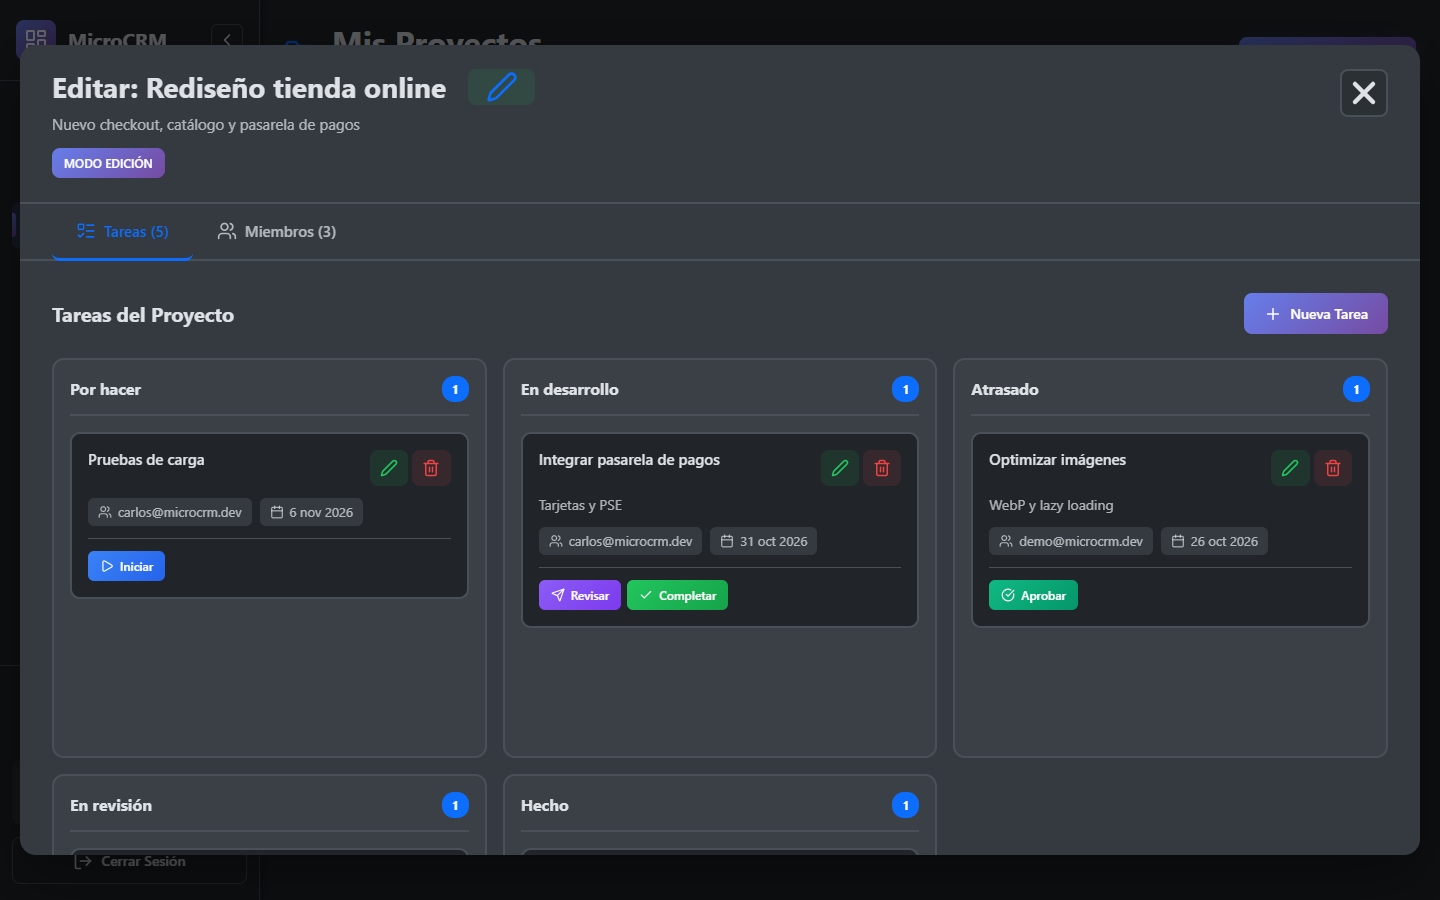
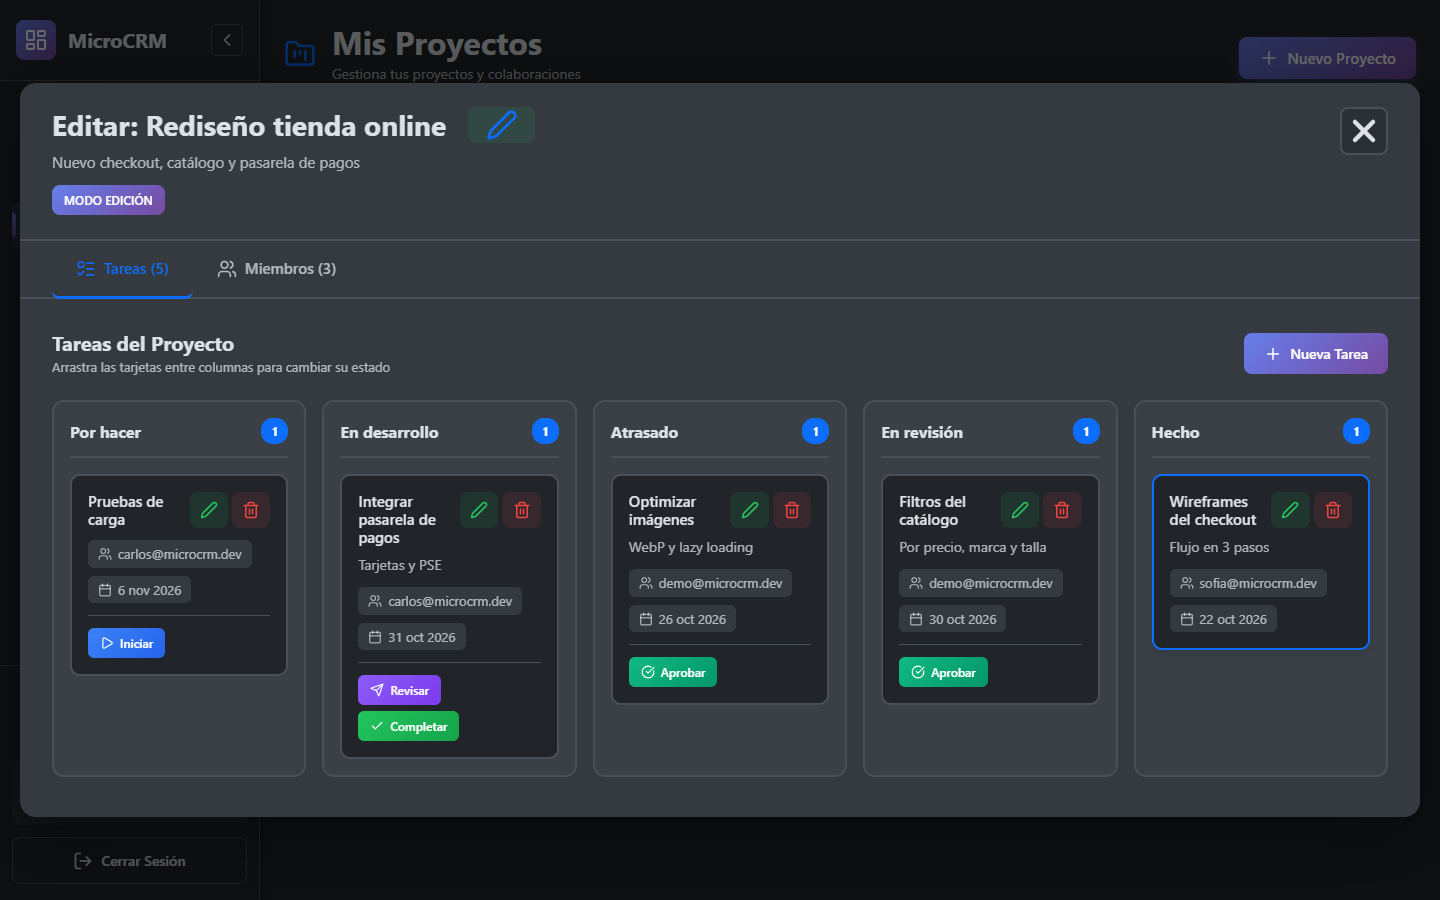
feat: Exportar clientes y tareas a CSV
- Clientes exporta todos los registros que cumplen la busqueda y el filtro
  actuales, no solo la pagina visible
- Mis Tareas exporta las tareas del filtro seleccionado
- Separador ';' y BOM UTF-8 para que Excel en espanol abra las columnas y
  muestre bien tildes y enes; fechas en formato ISO
- README y capturas actualizados (Kanban en una fila y exportacion)

diff --git a/project/micro-crm/src/modules/Clientes/Clientes.jsx b/project/micro-crm/src/modules/Clientes/Clientes.jsx
@@ -3,6 +3,7 @@ import api from "../../services/api";
 import StatusBadge from "../../components/StatusBadge";
 import { CLIENT_STATUS } from "../../constants/status";
 import { apiErrorMessage, formatDate } from "../../utils/format";
+import { downloadCsv } from "../../utils/csv";
 import {
   Users,
   Plus,
@@ -17,7 +18,8 @@ import {
   Loader,
   ChevronLeft,
   ChevronRight,
-  Contact
+  Contact,
+  Download
 } from "lucide-react";
 import "../Proyectos/Proyectos.css";
 import "./Clientes.css";
@@ -32,6 +34,17 @@ const EMPTY_FORM = {
   status: "lead",
   notes: ""
 };
+
+const CSV_COLUMNS = [
+  { header: "Nombre", value: (c) => c.name },
+  { header: "Empresa", value: (c) => c.company },
+  { header: "Correo", value: (c) => c.email },
+  { header: "Teléfono", value: (c) => c.phone },
+  { header: "Estado", value: (c) => CLIENT_STATUS[c.status]?.label ?? c.status },
+  { header: "Notas", value: (c) => c.notes },
+  { header: "Creado", value: (c) => c.created_at?.slice(0, 10) },
+  { header: "Actualizado", value: (c) => c.updated_at?.slice(0, 10) },
+];
 
 const STAT_CARDS = [
   { key: "", label: "Total clientes", className: "clientes-total-icon", icon: Contact },
@@ -56,6 +69,7 @@ export default function Clientes() {
   const [formData, setFormData] = useState(EMPTY_FORM);
   const [formError, setFormError] = useState("");
   const [submitting, setSubmitting] = useState(false);
+  const [exporting, setExporting] = useState(false);
 
   // Esperar a que el usuario deje de escribir antes de buscar
   useEffect(() => {
@@ -98,6 +112,33 @@ export default function Clientes() {
 
   const totalClientes = counts.lead + counts.active + counts.inactive;
   const totalPages = Math.max(1, Math.ceil(total / PAGE_SIZE));
+
+  // Exporta todos los clientes que cumplen la búsqueda y el filtro actuales (no solo la página visible)
+  const handleExport = async () => {
+    try {
+      setExporting(true);
+      const rows = [];
+      for (let skip = 0; ; skip += 100) {
+        const res = await api.get("/api/clients/", {
+          params: {
+            skip,
+            limit: 100,
+            order_by: "name",
+            order_dir: "asc",
+            search: debouncedSearch || undefined,
+            status: statusFilter || undefined
+          }
+        });
+        rows.push(...res.data.items);
+        if (!res.data.has_more) break;
+      }
+      downloadCsv("clientes", CSV_COLUMNS, rows);
+    } catch (err) {
+      setError(apiErrorMessage(err, "No se pudo exportar los clientes"));
+    } finally {
+      setExporting(false);
+    }
+  };
 
   const handleFilter = (status) => {
     setStatusFilter(status);
@@ -253,6 +294,10 @@ export default function Clientes() {
             <option key={value} value={value}>{label}</option>
           ))}
         </select>
+        <button type="button" className="btn-export" onClick={handleExport} disabled={exporting || total === 0}>
+          {exporting ? <Loader size={18} className="spinner" /> : <Download size={18} />}
+          Exportar CSV
+        </button>
       </div>
 
       {/* Tabla */}

diff --git a/project/micro-crm/src/modules/Tareas/Tareas.jsx b/project/micro-crm/src/modules/Tareas/Tareas.jsx
@@ -4,6 +4,7 @@ import api from "../../services/api";
 import StatusBadge from "../../components/StatusBadge";
 import { TASK_STATUS } from "../../constants/status";
 import { apiErrorMessage, formatDate } from "../../utils/format";
+import { downloadCsv } from "../../utils/csv";
 import {
   ListTodo,
   FolderKanban,
@@ -15,7 +16,8 @@ import {
   AlertCircle,
   Loader,
   Eye,
-  Send
+  Send,
+  Download
 } from "lucide-react";
 import "./Tareas.css";
 
@@ -25,6 +27,15 @@ const STAT_CARDS = [
   { status: "overdue", label: "Atrasadas", icon: Clock, className: "overdue-icon" },
   { status: "in_review", label: "En revisión", icon: Eye, className: "review-icon" },
   { status: "completed", label: "Completadas", icon: CheckCircle, className: "completed-icon" },
+];
+
+const CSV_COLUMNS = [
+  { header: "Tarea", value: (t) => t.title },
+  { header: "Descripción", value: (t) => t.description },
+  { header: "Proyecto", value: (t) => t.project_name },
+  { header: "Estado", value: (t) => TASK_STATUS[t.status]?.label ?? t.status },
+  { header: "Vencimiento", value: (t) => t.due_date?.slice(0, 10) },
+  { header: "Creada", value: (t) => t.created_at?.slice(0, 10) },
 ];
 
 // Siguiente paso que puede dar quien tiene la tarea asignada
@@ -91,13 +102,25 @@ function Tareas() {
     <div className="tareas-container">
       {/* Header */}
       <div className="tareas-header">
-        <div className="header-title">
-          <ListTodo size={32} />
-          <h1>Mis Tareas</h1>
+        <div>
+          <div className="header-title">
+            <ListTodo size={32} />
+            <h1>Mis Tareas</h1>
+          </div>
+          <p className="header-subtitle">
+            Gestiona todas tus tareas asignadas de todos los proyectos
+          </p>
         </div>
-        <p className="header-subtitle">
-          Gestiona todas tus tareas asignadas de todos los proyectos
-        </p>
+        {/* Exporta lo que se ve con el filtro actual */}
+        <button
+          type="button"
+          className="btn-export"
+          onClick={() => downloadCsv("mis-tareas", CSV_COLUMNS, filteredTareas)}
+          disabled={filteredTareas.length === 0}
+        >
+          <Download size={18} />
+          Exportar CSV
+        </button>
       </div>
 
       {/* Stats Cards */}

diff --git a/project/micro-crm/src/utils/csv.js b/project/micro-crm/src/utils/csv.js
@@ -1,0 +1,30 @@
+// Separador ";" porque Excel en español (coma decimal) lo usa para abrir el CSV en columnas
+const SEPARATOR = ";";
+
+const escapeCell = (value) => {
+  if (value === null || value === undefined) return "";
+  const text = String(value);
+  return /[";\n\r]/.test(text) ? `"${text.replace(/"/g, '""')}"` : text;
+};
+
+// columns: [{ header: "Nombre", value: (row) => row.name }, ...]
+export const toCsv = (columns, rows) => {
+  const lines = [columns.map((c) => escapeCell(c.header)).join(SEPARATOR)];
+  for (const row of rows) {
+    lines.push(columns.map((c) => escapeCell(c.value(row))).join(SEPARATOR));
+  }
+  return lines.join("\r\n");
+};
+
+export const downloadCsv = (filename, columns, rows) => {
+  // BOM para que Excel reconozca UTF-8 (tildes y eñes)
+  const blob = new Blob(["" + toCsv(columns, rows)], { type: "text/csv;charset=utf-8" });
+  const url = URL.createObjectURL(blob);
+  const link = document.createElement("a");
+  link.href = url;
+  link.download = `${filename}-${new Date().toISOString().slice(0, 10)}.csv`;
+  document.body.appendChild(link);
+  link.click();
+  link.remove();
+  URL.revokeObjectURL(url);
+};

diff --git a/project/micro-crm/src/styles/global.css b/project/micro-crm/src/styles/global.css
@@ -39,3 +39,29 @@ body {
   border-radius: 10px;
   border-width: 2px;
 }
+
+/* Botón secundario de exportación (Clientes, Mis Tareas) */
+.btn-export {
+  display: inline-flex;
+  align-items: center;
+  gap: 8px;
+  padding: 10px 18px;
+  border: 2px solid var(--bs-border-color);
+  border-radius: 10px;
+  background: var(--bs-body-bg);
+  color: var(--bs-body-color);
+  font-weight: 600;
+  font-size: 15px;
+  white-space: nowrap;
+  transition: all 0.2s ease;
+}
+
+.btn-export:hover:not(:disabled) {
+  border-color: var(--bs-primary);
+  color: var(--bs-primary);
+}
+
+.btn-export:disabled {
+  opacity: 0.5;
+  cursor: not-allowed;
+}

diff --git a/project/micro-crm/src/modules/Tareas/Tareas.css b/project/micro-crm/src/modules/Tareas/Tareas.css
@@ -26,6 +26,11 @@
    ============================================ */
 
 .tareas-header {
+  display: flex;
+  justify-content: space-between;
+  align-items: flex-start;
+  gap: 16px;
+  flex-wrap: wrap;
   margin-bottom: 32px;
   animation: fadeInDown 0.6s ease-out 0.1s both;
 }

diff --git a/README.md b/README.md
@@ -51,10 +51,10 @@ Está pensado para freelancers, agencias y equipos de desarrollo de 2 a 15 perso
 | Módulo | Qué incluye |
 |---|---|
 | 🏠 **Dashboard** | Proyectos propios y como colaborador, tareas abiertas y atrasadas, % de avance, clientes por estado, próximos vencimientos y proyectos recientes |
-| 👥 **Clientes** | CRUD completo, embudo prospecto / activo / inactivo, búsqueda, filtros, paginación y notas |
+| 👥 **Clientes** | CRUD completo, embudo prospecto / activo / inactivo, búsqueda, filtros, paginación, notas y exportación a CSV |
 | 📁 **Proyectos** | Propios y compartidos, edición en línea, roles por proyecto (Administrador, Desarrollador, Revisor o personalizados) |
-| 🗂 **Kanban** | 5 columnas (Por hacer → En desarrollo → Atrasado → En revisión → Hecho) con acciones según el rol |
-| ✅ **Mis Tareas** | Todas tus tareas de todos los proyectos, filtros por estado y botón para avanzar al siguiente paso |
+| 🗂 **Kanban** | 5 columnas (Por hacer → En desarrollo → Atrasado → En revisión → Hecho) con **arrastrar y soltar** y acciones según el rol |
+| ✅ **Mis Tareas** | Todas tus tareas de todos los proyectos, filtros por estado, botón para avanzar al siguiente paso y exportación a CSV |
 | ⏰ **Automatización** | Un scheduler marca cada hora como *atrasadas* las tareas vencidas |
 | 🔐 **Seguridad** | JWT, contraseñas con hash PBKDF2, reglas de fortaleza, límite de peticiones por IP y por usuario, permisos por proyecto |
 | 🌗 **Tema claro y oscuro** | Se recuerda entre sesiones y no parpadea al cargar |
@@ -65,7 +65,7 @@ Está pensado para freelancers, agencias y equipos de desarrollo de 2 a 15 perso
 <table>
   <tr>
     <td width="50%"><img src="docs/screenshots/clientes.png" alt="Clientes" /><p align="center"><b>Clientes</b>: embudo, búsqueda y filtros</p></td>
-    <td width="50%"><img src="docs/screenshots/kanban.png" alt="Tablero Kanban" /><p align="center"><b>Kanban</b>: tareas del proyecto por estado</p></td>
+    <td width="50%"><img src="docs/screenshots/kanban.png" alt="Tablero Kanban" /><p align="center"><b>Kanban</b>: arrastra las tareas entre columnas</p></td>
   </tr>
   <tr>
     <td><img src="docs/screenshots/proyectos.png" alt="Proyectos" /><p align="center"><b>Proyectos</b>: propios y como colaborador</p></td>
@@ -365,11 +365,11 @@ npm run build
 - [x] Módulo de clientes con embudo comercial
 - [x] Dashboard con indicadores
 - [x] Docker Compose y datos de demo
+- [x] Arrastrar y soltar tareas en el Kanban
+- [x] Exportar clientes y tareas a CSV
 - [ ] Vincular clientes con proyectos
-- [ ] Arrastrar y soltar tareas en el Kanban
 - [ ] Notificaciones por correo de tareas por vencer
 - [ ] Migraciones de base de datos con Alembic
-- [ ] Exportar clientes y tareas a CSV
 
 ## Origen del proyecto
 
